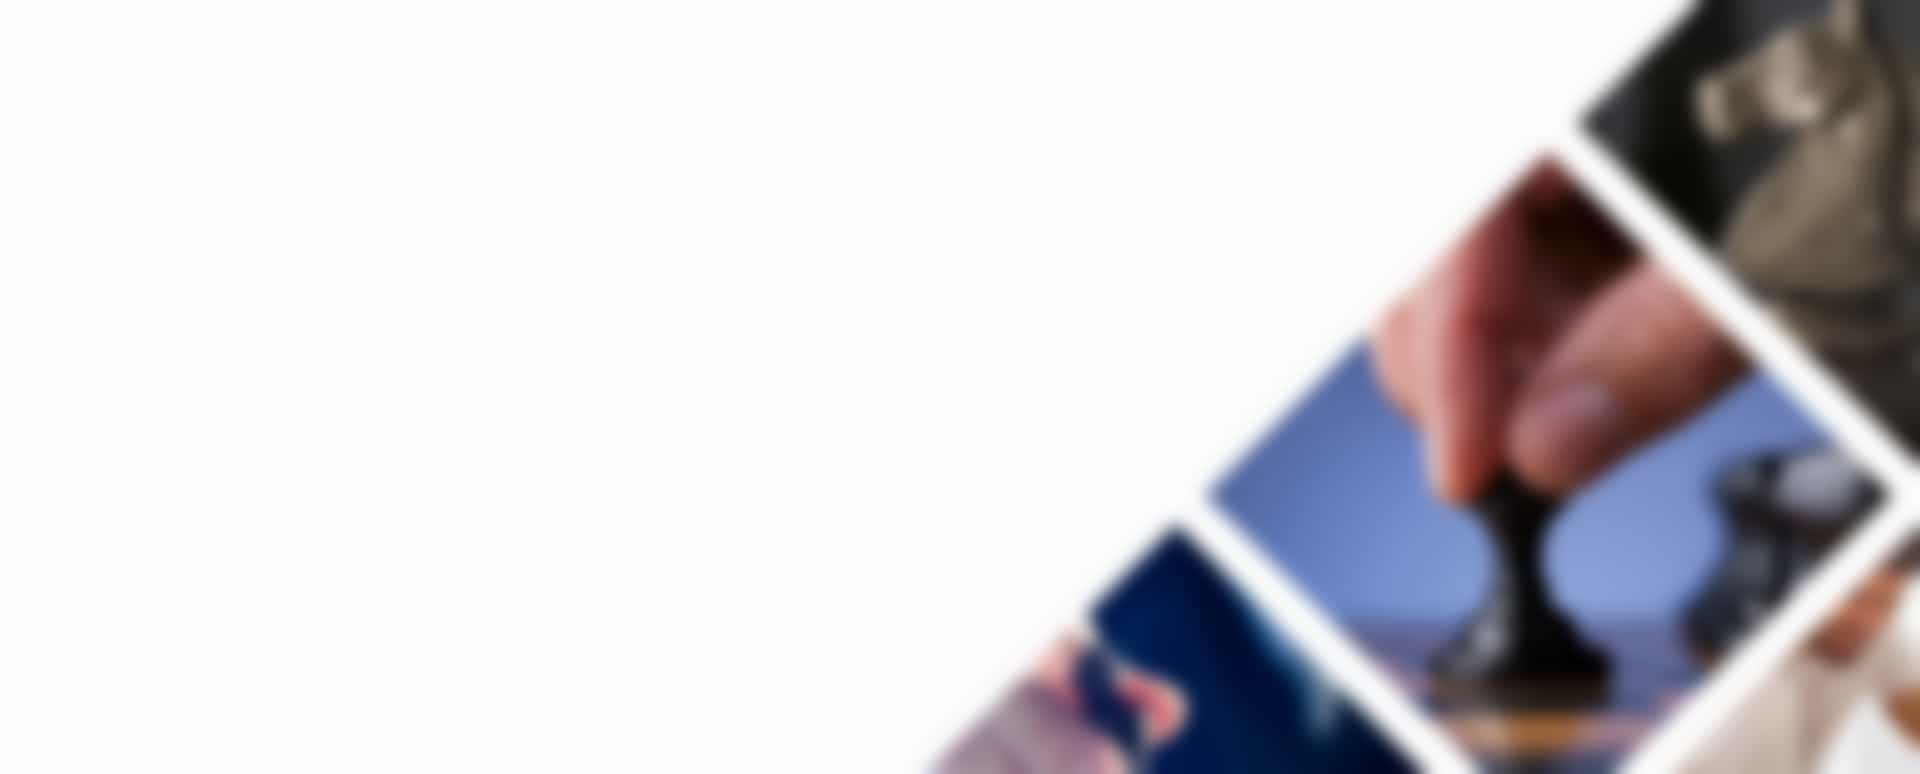
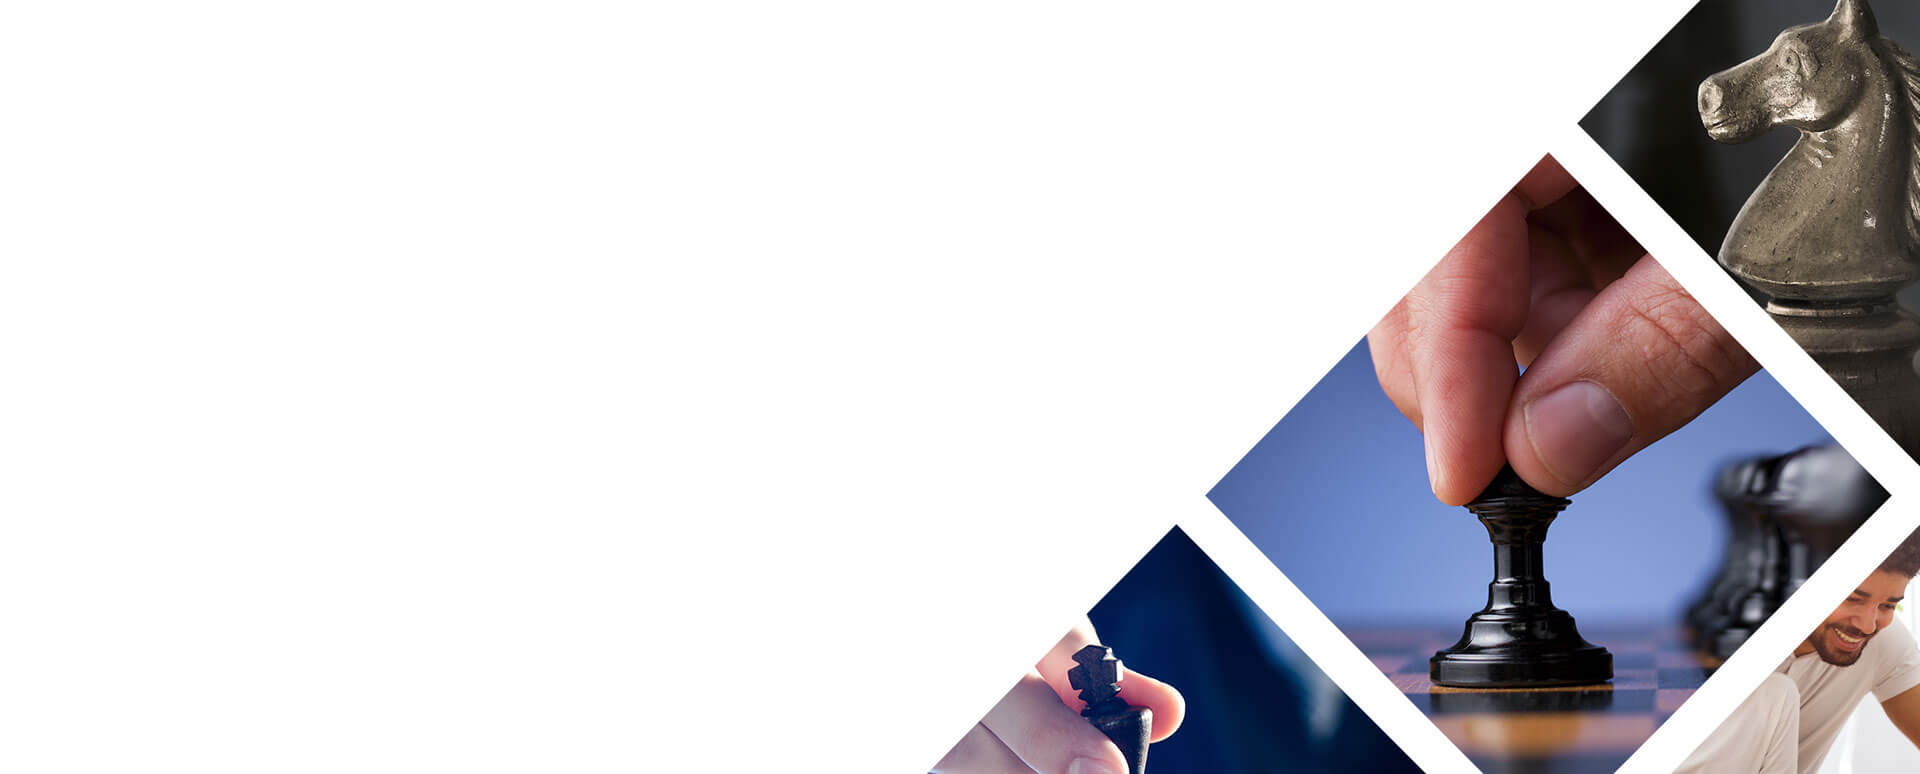
add hero size

Changed region(s): [[0.4688, 0.0, 1.0, 1.0], [0.9688, 0.2481, 1.0, 0.3101]]

diff --git a/src/components/sections/Hero.vue b/src/components/sections/Hero.vue
@@ -1,8 +1,8 @@
 <template>
   <section id="hero">
     <v-img
-      :min-height="minHeight"
-      :src="require('@/assets/images/slide05.jpg')"
+      
+      :src="require('@/assets/images/slide03.jpg')"
       class="white--text"
       gradient="to right, rgba(5, 11, 31, .8), rgba(5, 11, 31, .8)"
     >

diff --git a/README.md b/README.md
@@ -1,1 +1,5 @@
-"# fmx" 
+# Nuxt.js FMX Static Site 
+
+[![Netlify Status](https://api.netlify.com/api/v1/badges/5191e66c-a92c-4d42-9c9f-12d48647ee45/deploy-status)](https://app.netlify.com/sites/fmx/deploys)
+
+[![Build Status][build-status]][build-url]
